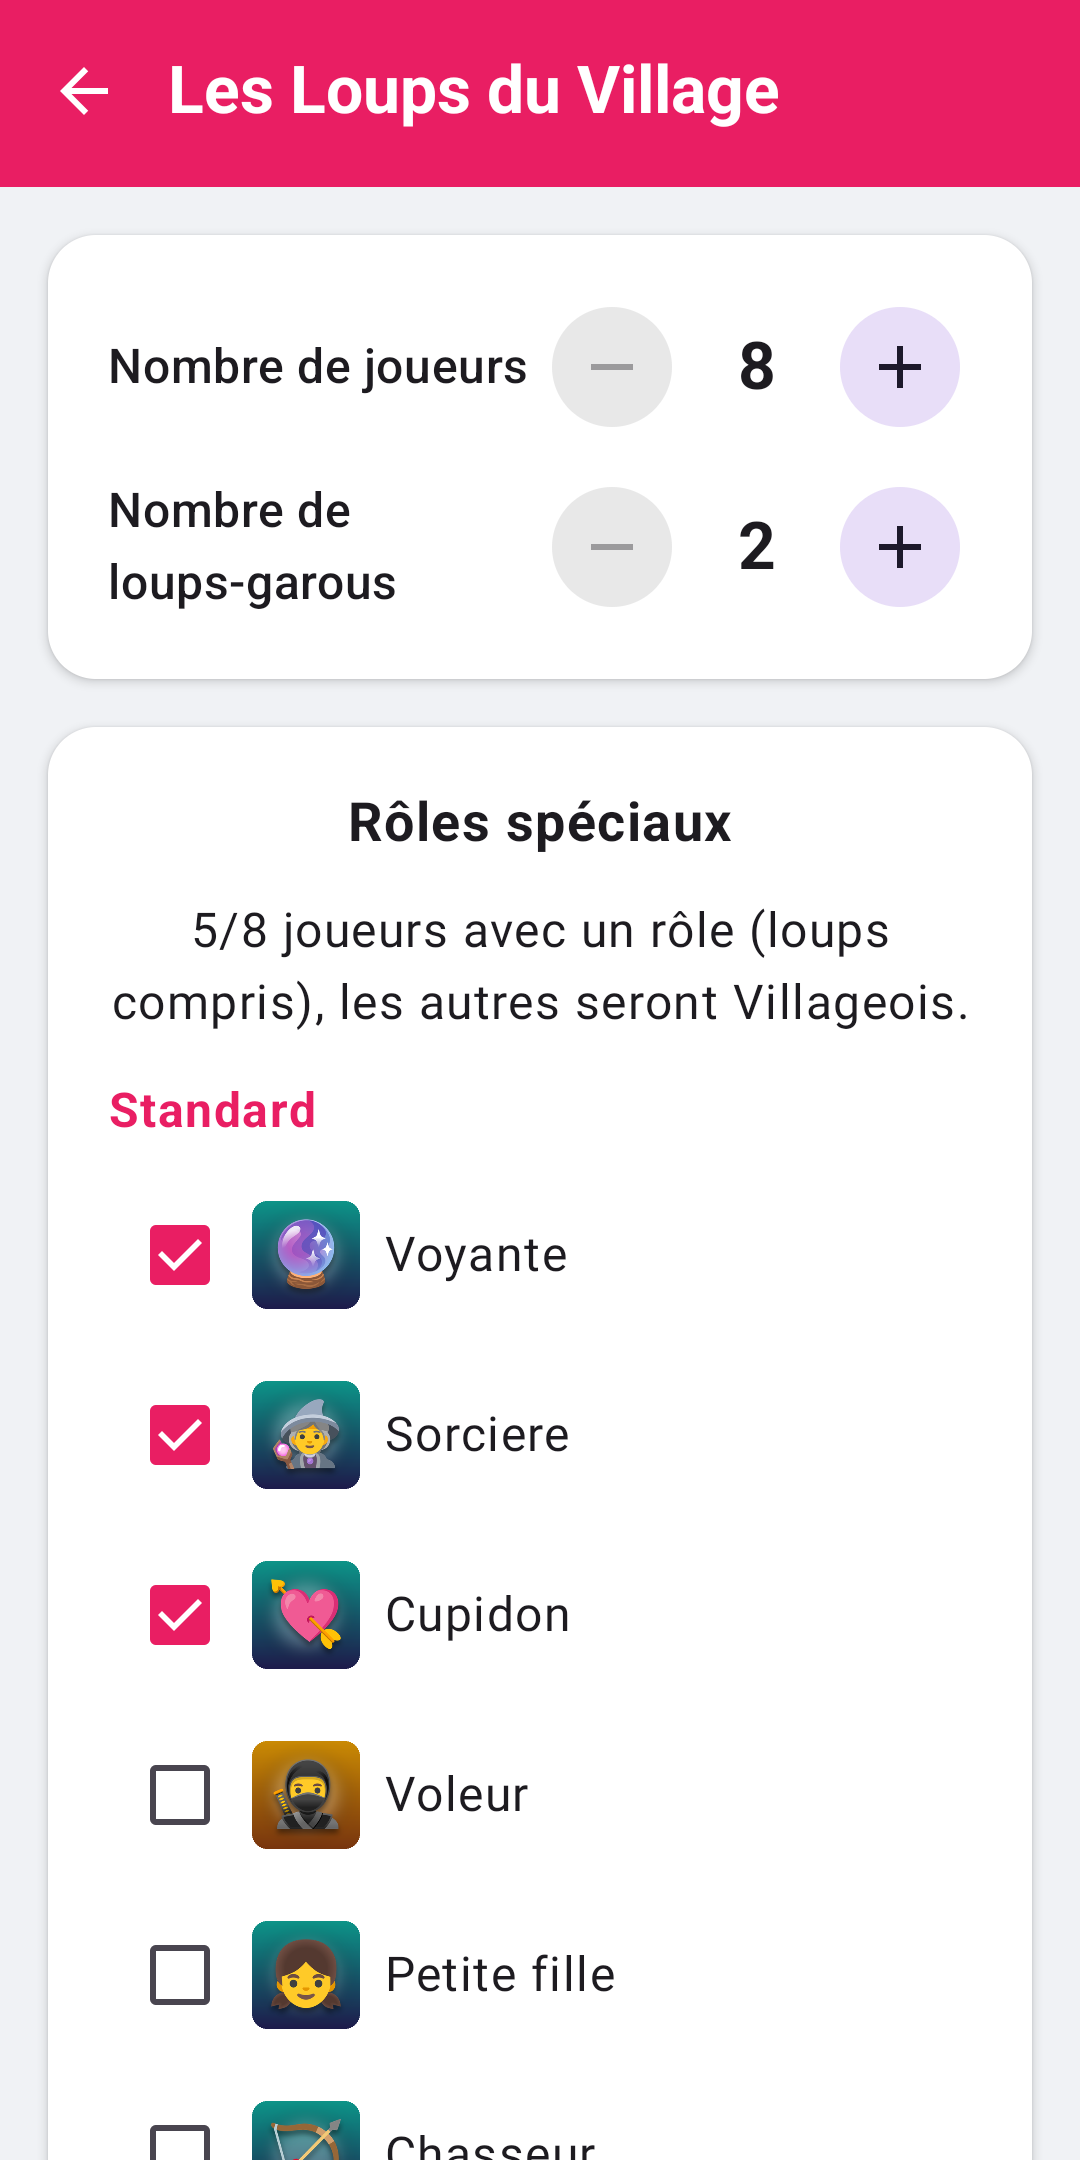
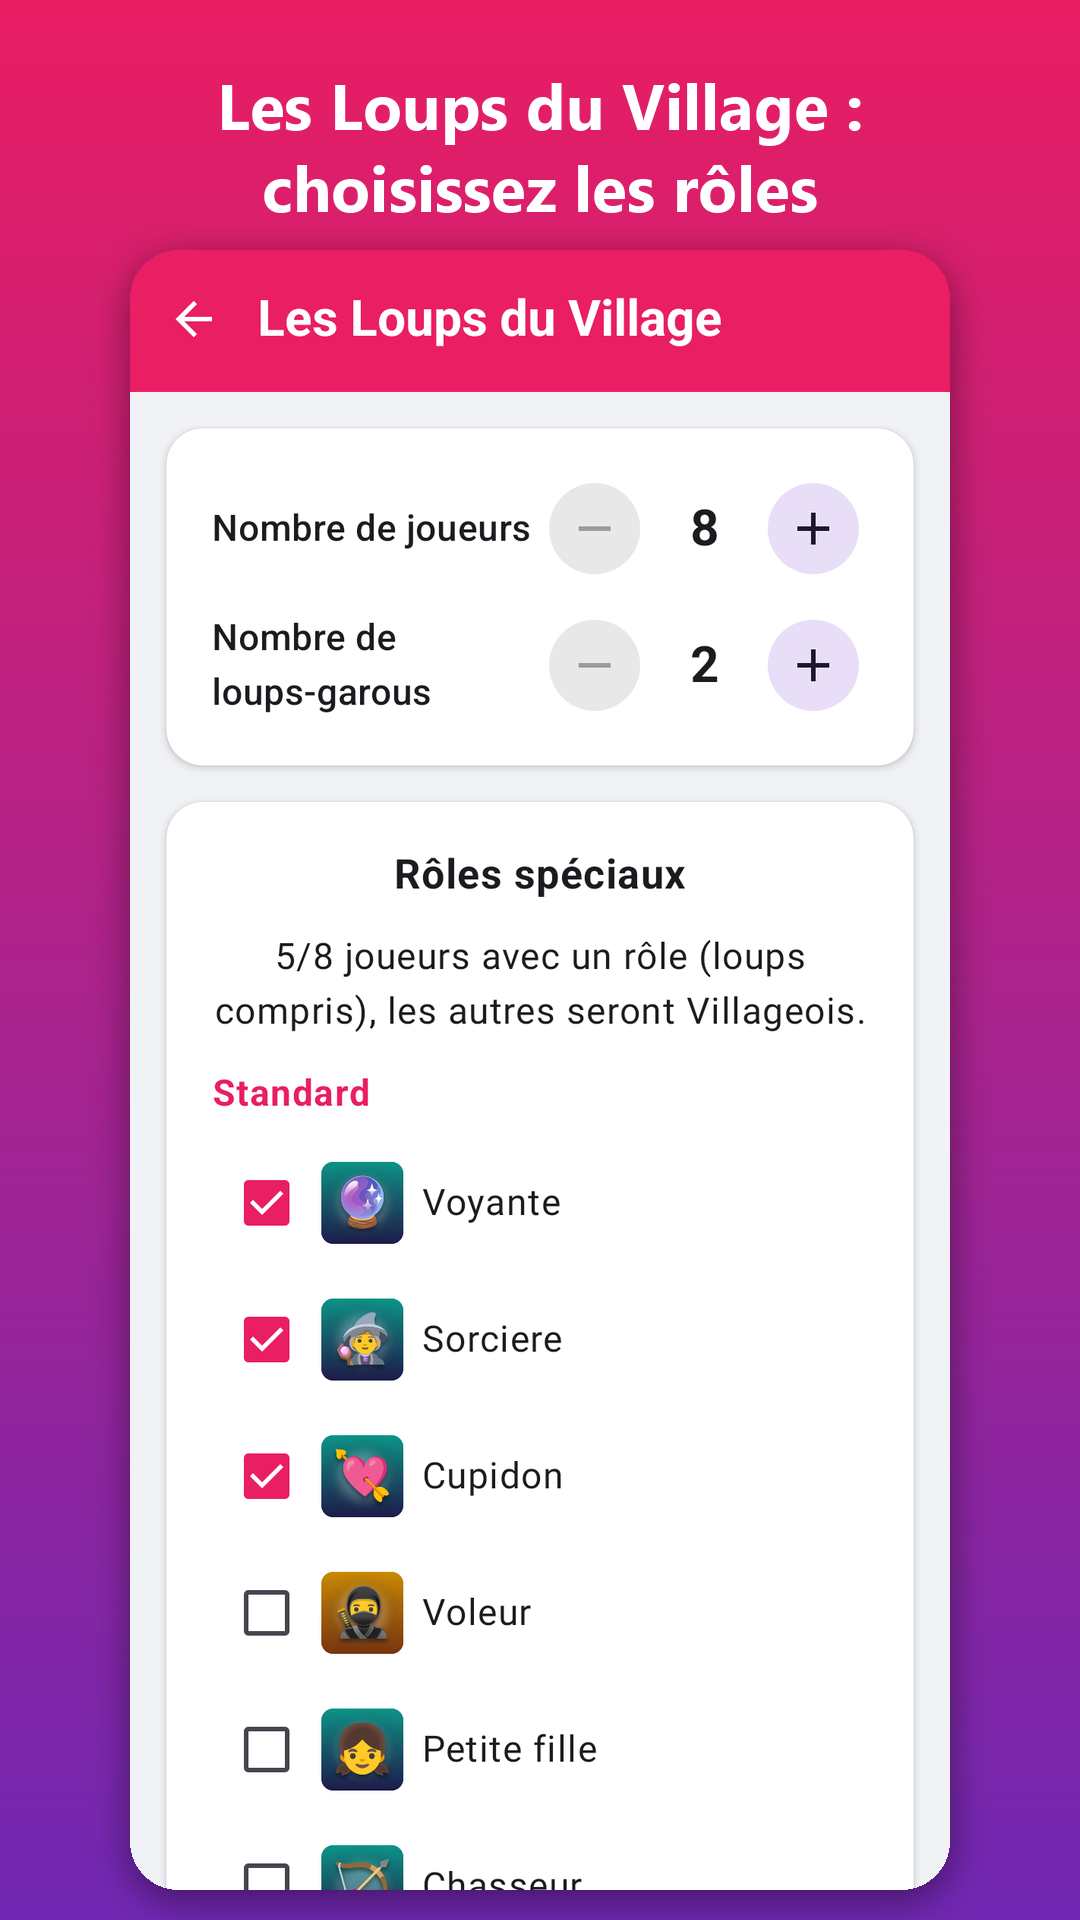
Android : captures Play Store en 9:16 avec légendes

diff --git a/android/store/make_assets.py b/android/store/make_assets.py
@@ -46,16 +46,46 @@ def font(size, bold=True):
 # 1. Icone 512x512 (le Play Store arrondit lui-meme les coins)
 hourglass(512).convert("RGB").save(os.path.join(OUT, "icon-512.png"))
 
-# 2. Captures 1080x2160 (ratio max 2:1) : on retire barre d'etat et barre de navigation
+# 2. Captures 1080x1920 (9:16 exige par le Play Store) : capture sans barres systeme,
+#    reduite et posee sur un fond aux couleurs de l'appli, avec une legende
+CAPTIONS = [
+    "5 jeux d'ambiance,\nun seul téléphone",
+    "Les Loups du Village :\nchoisissez les rôles",
+    "Mots Interdits :\nchrono et scores",
+    "Chaque joueur découvre\nson rôle en secret",
+]
+
+def gradient(w, h):
+    g = Image.new("RGB", (w, h))
+    d = ImageDraw.Draw(g)
+    for y in range(h):
+        t = y / (h - 1)
+        d.line([(0, y), (w - 1, y)], fill=(int(233 - 120 * t), int(30 + 10 * t), int(99 + 80 * t)))
+    return g
+
 raw = sys.argv[1] if len(sys.argv) > 1 else None
 shots = []
 if raw:
     for i, name in enumerate(sorted(f for f in os.listdir(raw) if f.startswith("s") and f.endswith(".png")), 1):
         im = Image.open(os.path.join(raw, name)).convert("RGB")
-        im = im.crop((0, 108, 1080, 108 + 2160))
-        p = os.path.join(OUT, f"screenshot-{i}.png")
-        im.save(p)
+        im = im.crop((0, 108, 1080, 108 + 2160))  # sans barre d'etat ni barre de navigation
         shots.append(im)
+        canvas = gradient(1080, 1920)
+        d = ImageDraw.Draw(canvas)
+        cap = CAPTIONS[i - 1] if i <= len(CAPTIONS) else ""
+        d.multiline_text((540, 60), cap, font=font(64), fill="white", anchor="ma", align="center", spacing=12)
+        h = 1640
+        w = int(h * im.width / im.height)
+        th = im.resize((w, h), Image.LANCZOS)
+        x, y = (1080 - w) // 2, 250
+        sh = Image.new("RGBA", (w + 80, h + 80), (0, 0, 0, 0))
+        ImageDraw.Draw(sh).rounded_rectangle([40, 50, w + 40, h + 50], radius=48, fill=(0, 0, 0, 110))
+        sh = sh.filter(ImageFilter.GaussianBlur(18))
+        canvas.paste(sh, (x - 40, y - 40), sh)
+        mask = Image.new("L", (w, h), 0)
+        ImageDraw.Draw(mask).rounded_rectangle([0, 0, w - 1, h - 1], radius=48, fill=255)
+        canvas.paste(th, (x, y), mask)
+        canvas.save(os.path.join(OUT, f"screenshot-{i}.png"))
 
 # 3. Image de presentation 1024x500
 fg = Image.new("RGB", (1024, 500), PINK)
